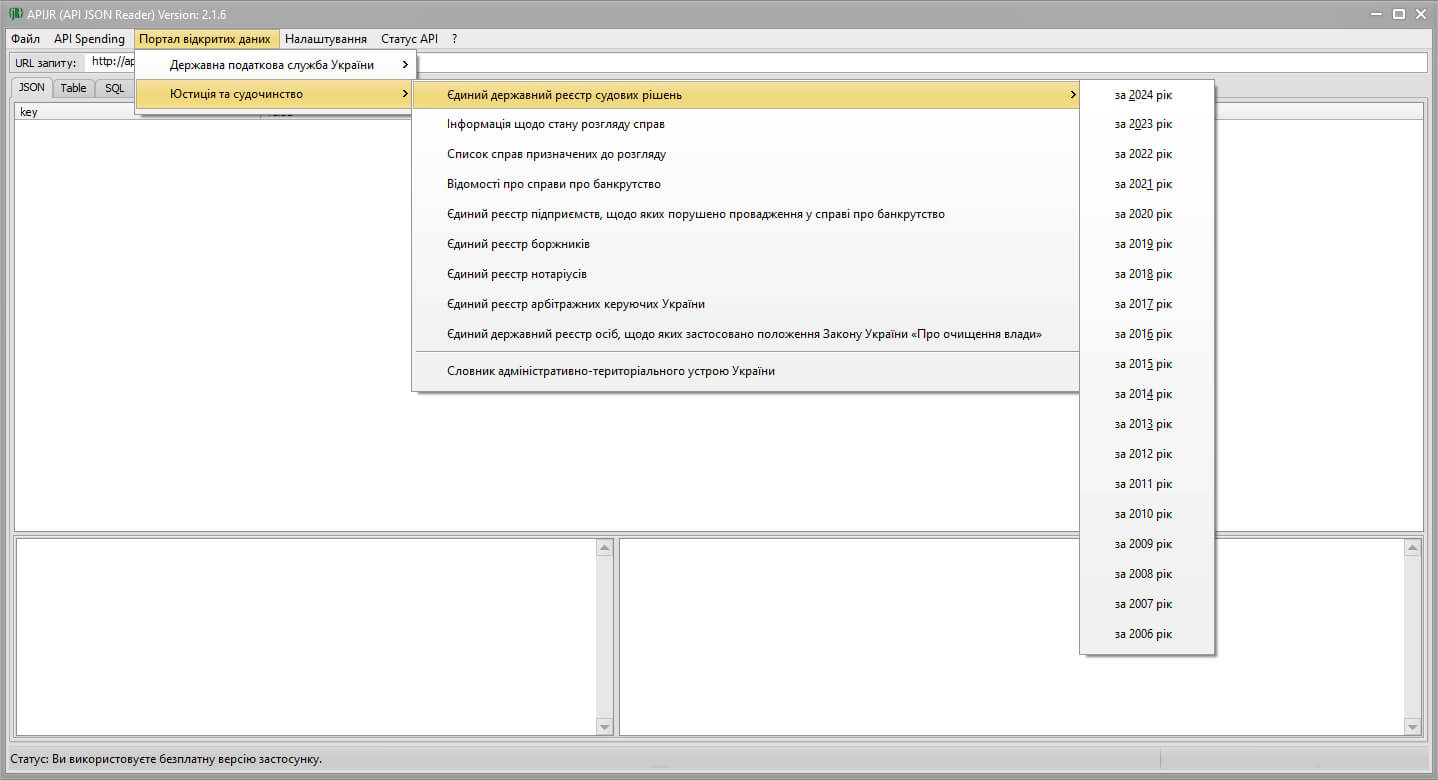
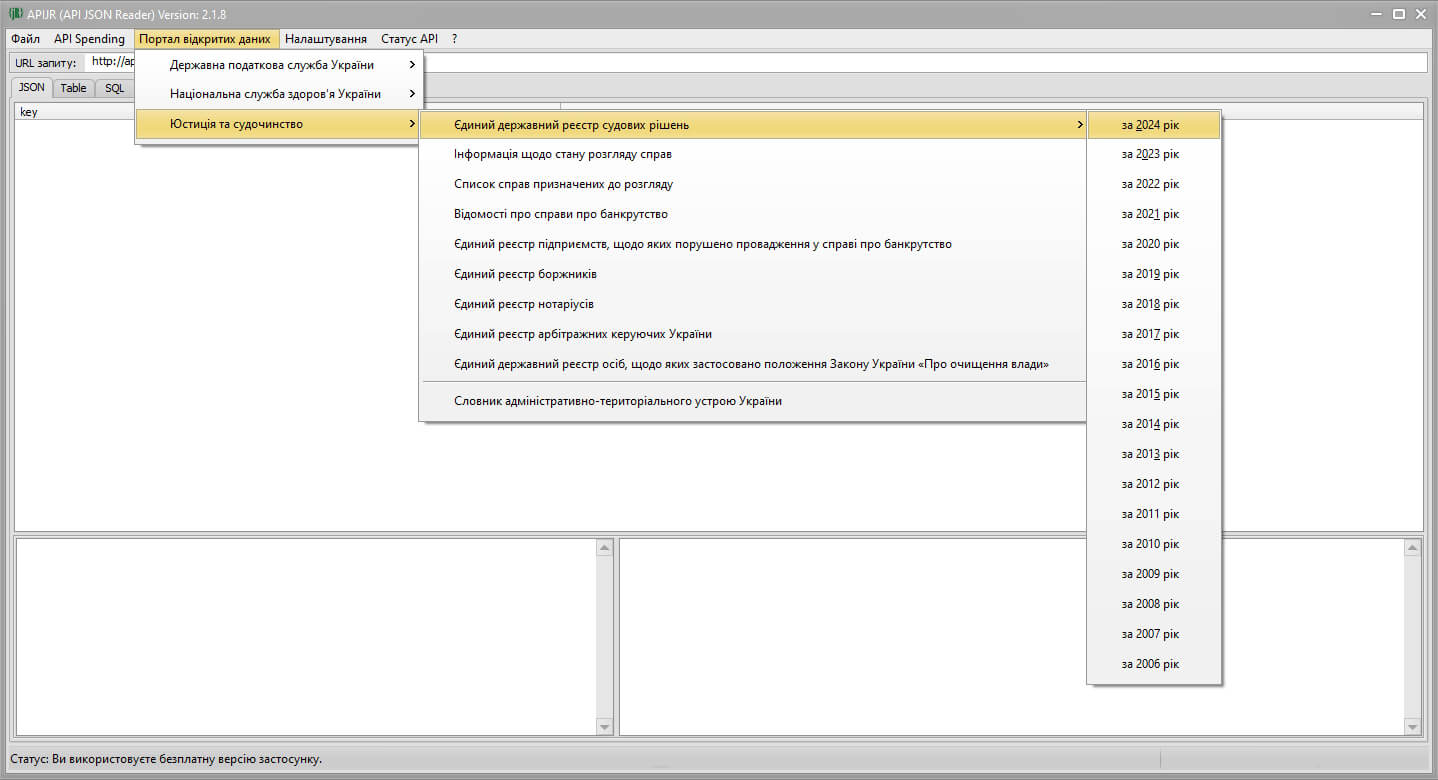
nszu

Changed region(s): [[0.0918, 0.0615, 0.8567, 0.8923]]

diff --git a/apijr-pro.html b/apijr-pro.html
@@ -130,21 +130,27 @@
 									<div class="row">
 										<div class="col-12">
 											<article class="box style2">
-												<a href="images/pic07.jpg" class="image featured"><img src="images/pic07.jpg" alt="" /></a>
+												<a href="images/pic07.jpg" class="image featured"><img src="images/pic07.jpg" alt="Інформація з державного реєстру судових рішень за 2007 рік" /></a>
 												<h3><a href="images/pic07.jpg">Перегляд набору даних з Порталу відкритих даних</a></h3>
 												<p>Інформація з державного реєстру судових рішень за 2007 рік у вигляді зручної таблиці, яку можна фільтрувати, виконувати пошук, сортувати, копіювати часткову або повну інформацію до буфера обміну, експортувати дані в Excel (автоматично сформується необхідна кількість аркушів у книзі Excel)</p>
 											</article>
 											
 											<article class="box style2">
-												<a href="images/dpsu.jpg" class="image featured"><img src="images/dpsu.jpg" alt="" /></a>
+												<a href="images/dpsu.jpg" class="image featured"><img src="images/dpsu.jpg" alt="Набори даних розпорядника Державної Податкової Служби України" /></a>
 												<h3><a href="images/dpsu.jpg">Набори даних розпорядника Державної Податкової Служби України</a></h3>
-												<p>Доступні на поточний момент набори даних розпорядника Державної Податкової Служби України на єдиному державному порталі відкритих даних. Це не повний набір, з часом він буде розширений.</p>
+												<p>Доступні на поточний момент набори даних розпорядника Державної Податкової Служби України на єдиному державному порталі відкритих даних.</p>
 											</article>
 											
 											<article class="box style2">
-												<a href="images/justicia.jpg" class="image featured"><img src="images/justicia.jpg" alt="" /></a>
+												<a href="images/justicia.jpg" class="image featured"><img src="images/justicia.jpg" alt="Набори даних групи Юстиція та Судочинство" /></a>
 												<h3><a href="images/justicia.jpg">Набори даних групи Юстиція та Судочинство</a></h3>
 												<p>Група "Юстиція і судочинство" об'єднує набори даних від розпорядників Міністерство юстиції України та Державна судова адміністрація України.</p>
+											</article>
+											
+											<article class="box style2">
+												<a href="images/nszu.jpg" class="image featured"><img src="images/nszu.jpg" alt="Набори даних розпорядника Національна Служба Здоров'я України" /></a>
+												<h3><a href="images/justicia.jpg">Набори даних розпорядника Національна Служба Здоров'я України</a></h3>
+												<p>Доступні на поточний момент набори даних розпорядника Національна Служба Здоров'я України на єдиному державному порталі відкритих даних. Це не повний набір, з часом він буде доповнений.</p>
 											</article>
 										</div>
 									</div>
